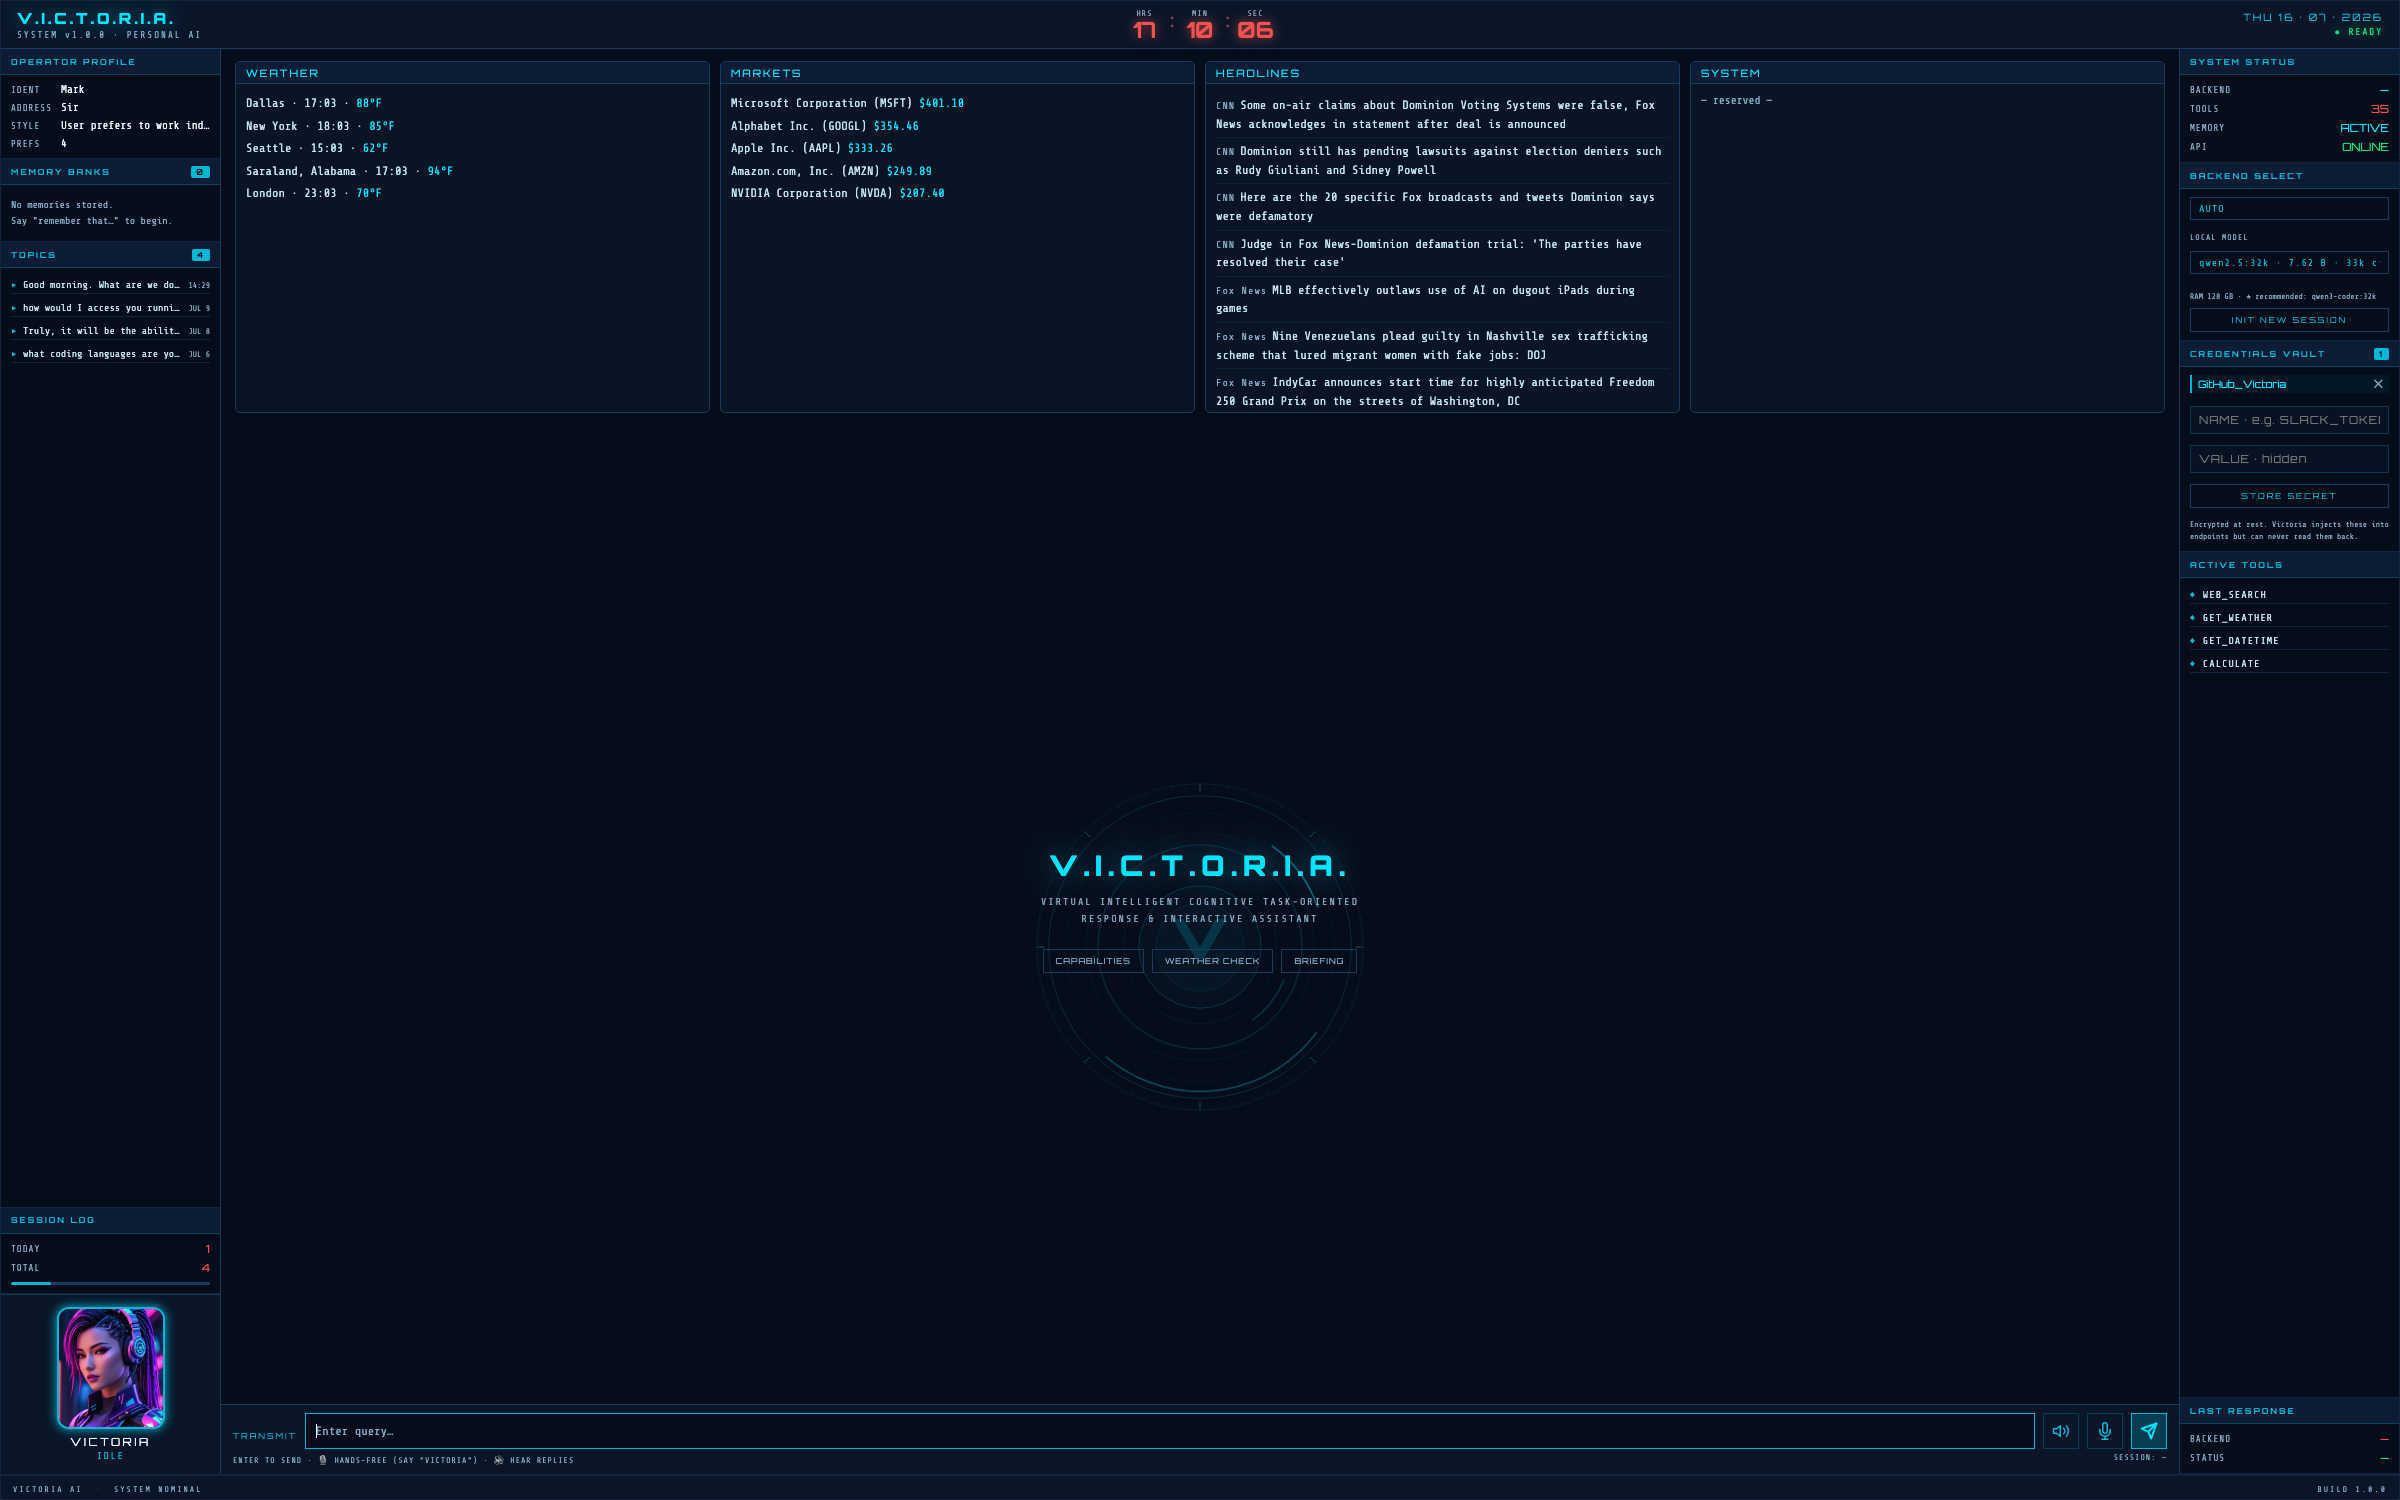
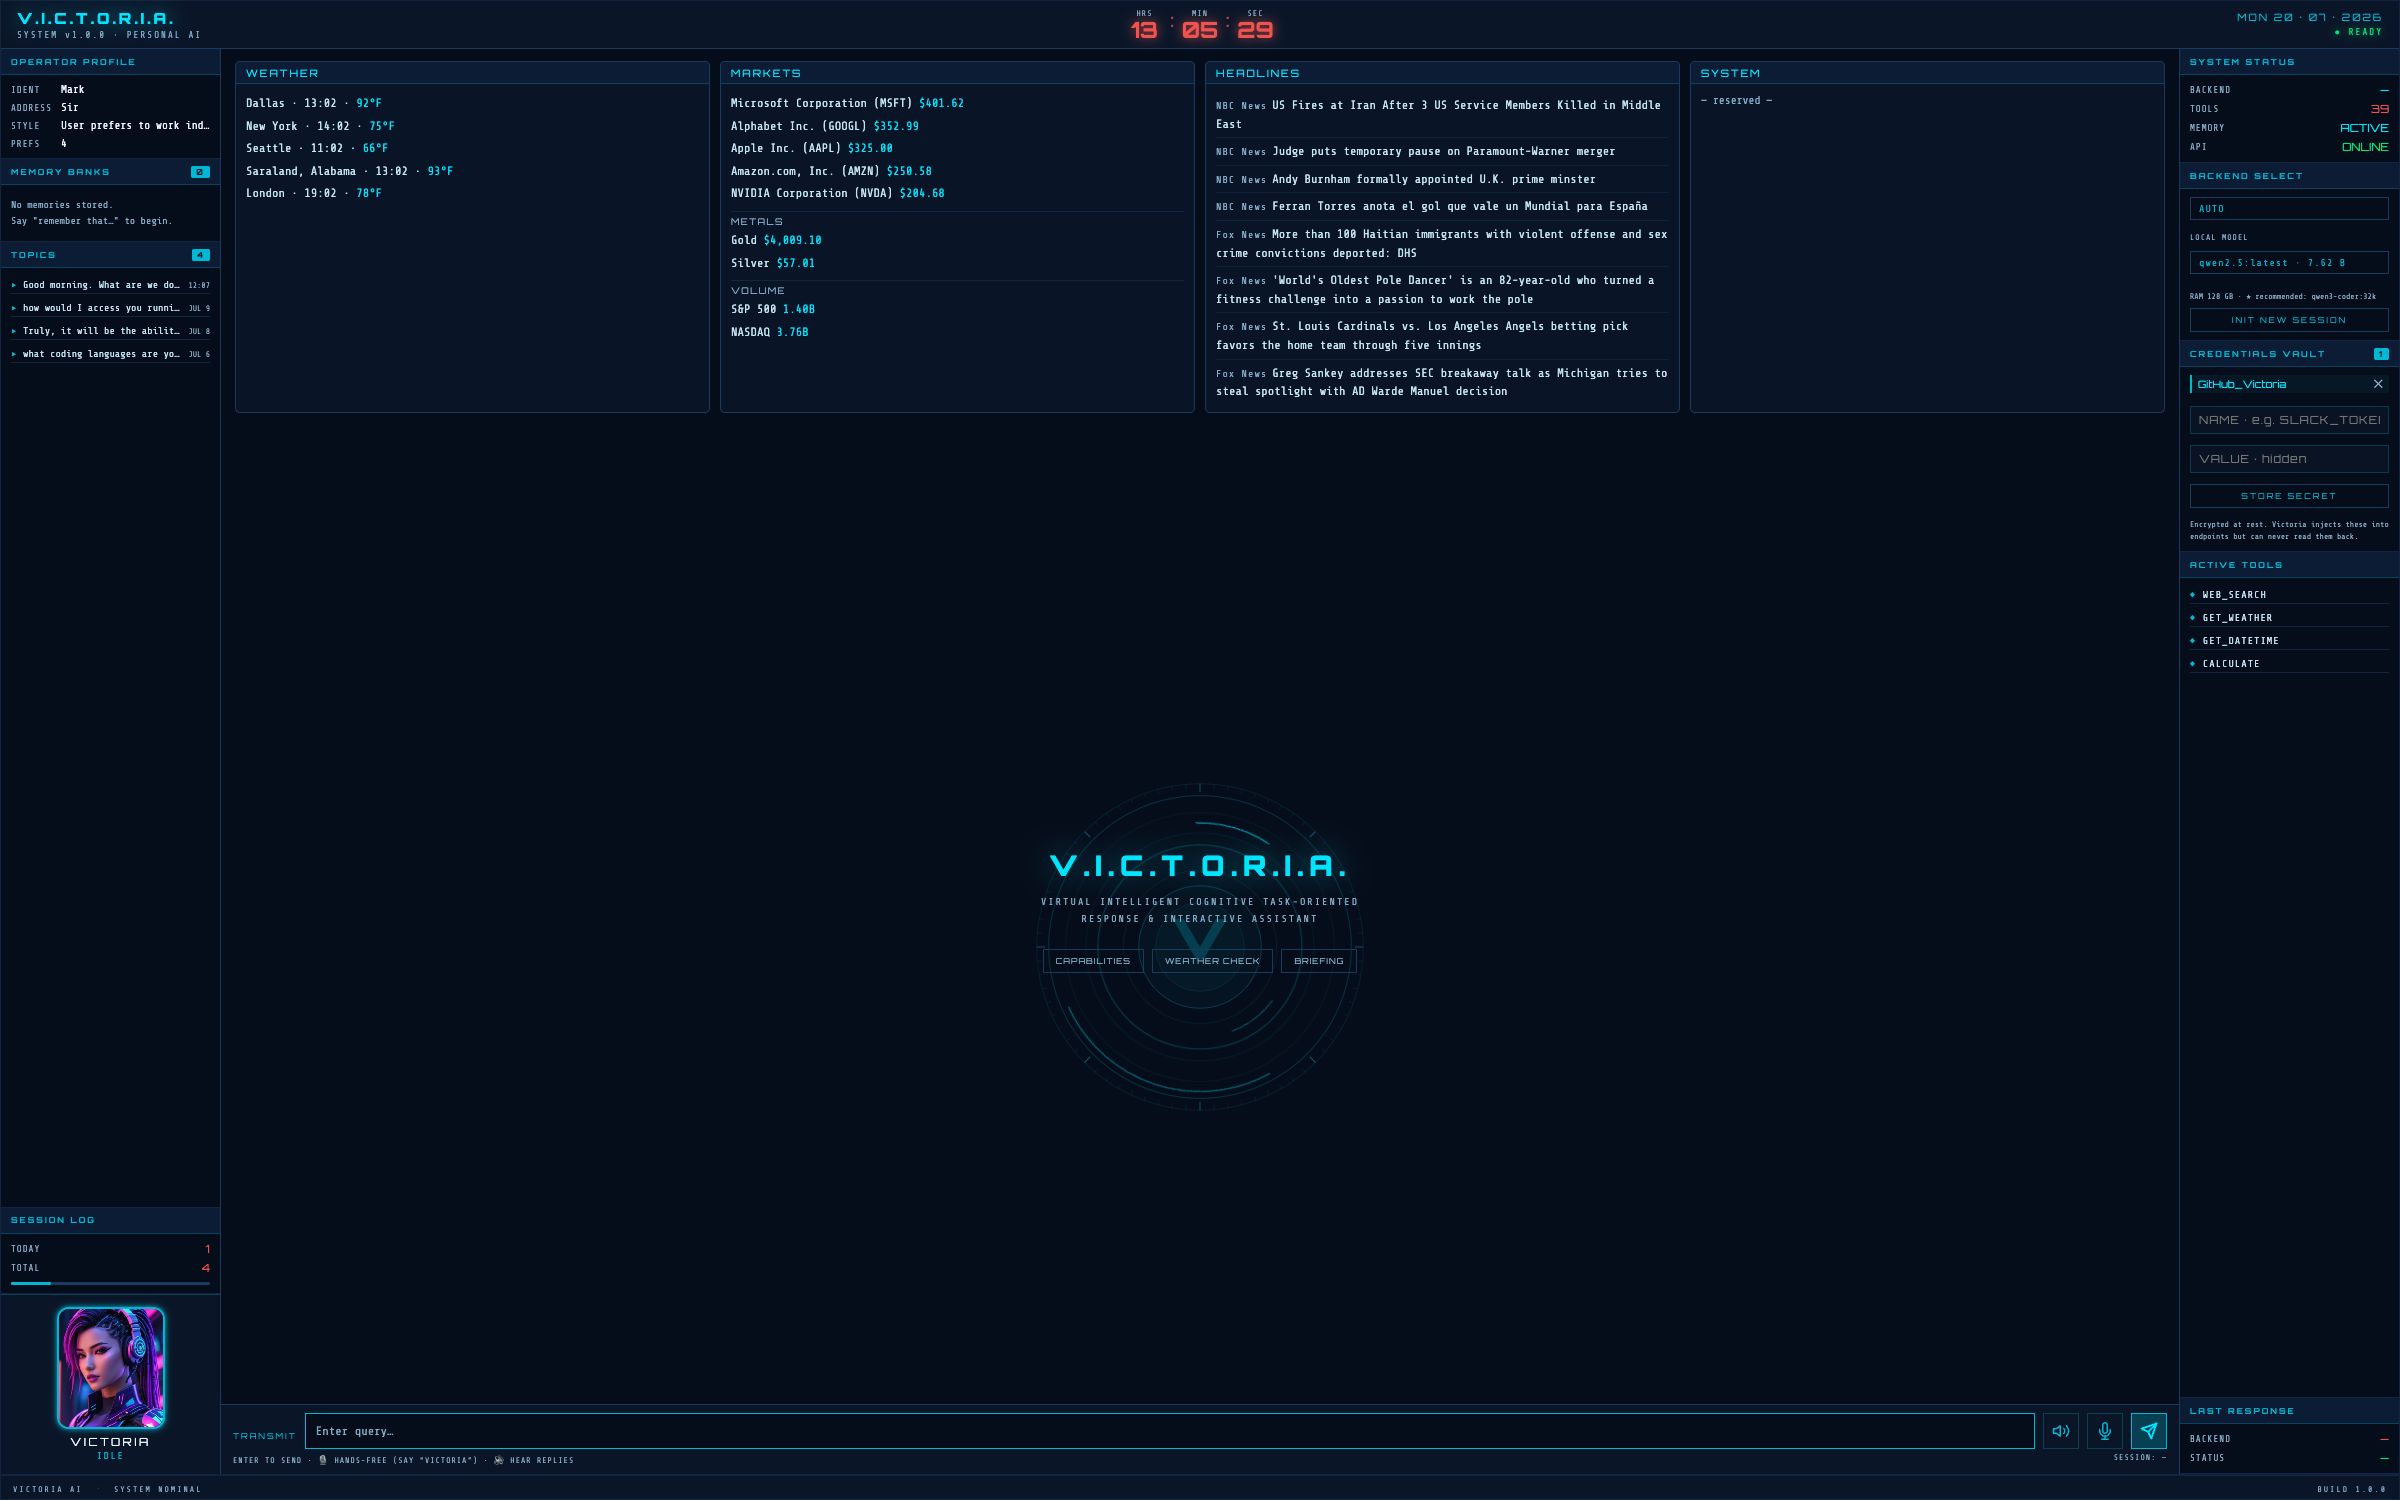
feat(dashboard): Gold/Silver prices + S&P/NASDAQ volume in MARKETS (#61)
* feat(dashboard): add Gold/Silver prices + S&P/NASDAQ volume to MARKETS

The MARKETS box now shows, below the tracked stocks, two fixed sub-sections:
- METALS: Gold (GC=F) and Silver (SI=F) prices
- VOLUME: S&P 500 (^GSPC) and NASDAQ (^IXIC) regular-session trading volume

All from the same Yahoo v8 chart endpoint already used for stocks
(query1.finance.yahoo.com — already allow-listed, so no new egress).

- feeds.py: _quote helper (price+volume), fetch_metals, fetch_indices, and
  fetch_markets (gathers stocks+metals+indices concurrently).
- api.py: GET /v1/dashboard/stocks now returns {items, metals, indices}.
- app.js: MARKETS box renders labelled METALS + VOLUME sub-sections; volume
  formatted B/M, metals as $ with thousands separators. style.css: .dash-sub.
- tests: fetch_metals/indices mapping + endpoint shape (333 -> 335).
- docs: README markets line, decisions ADR, counts.

Metals/indices are FIXED (not conversationally tracked). Verified live:
endpoint returns real data and the box renders (Gold $4,016, Silver $57.16,
S&P 500 1.18B, NASDAQ 3.25B).

* docs(screenshot): refresh hero HUD — NBC headlines + METALS/VOLUME + tools=39

The hero shot predated three changes now on-screen: NBC News headlines (was the
dead CNN feed), the MARKETS box's METALS (Gold/Silver) + VOLUME (S&P/NASDAQ)
sub-sections (this PR), and the tool count (35 -> 39, after the knowledge tools).
Recaptured live at 2400x1500.

---------

Changed region(s): [[0.5, 0.0613, 0.6875, 0.276], [0.4688, 0.0, 0.5312, 0.0307], [0.3125, 0.1533, 0.3438, 0.2147]]

diff --git a/victoria/static/app.js b/victoria/static/app.js
@@ -946,21 +946,55 @@ inputEl.focus();
     } catch (e) { empty(elW, 'weather unavailable'); }
   }
 
+  function fmtVol(v) {
+    v = Number(v);
+    if (v >= 1e9) return (v / 1e9).toFixed(2) + 'B';
+    if (v >= 1e6) return (v / 1e6).toFixed(1) + 'M';
+    return v.toLocaleString('en-US');
+  }
+  function marketLine(el, label, valueText) {
+    const line = document.createElement('div');
+    line.className = 'dash-line';
+    line.append(label + ' ');
+    const s = document.createElement('span');
+    s.className = 'price';
+    s.textContent = valueText;
+    line.append(s);
+    el.appendChild(line);
+  }
+  function subhead(el, text) {
+    const d = document.createElement('div');
+    d.className = 'dash-sub';
+    d.textContent = text;
+    el.appendChild(d);
+  }
   async function refreshStocks() {
     if (!elS) return;
     try {
-      const items = await load('/v1/dashboard/stocks');
-      if (!items.length) return empty(elS, 'No stocks tracked — ask Victoria to add one.');
+      const r = await fetch('/v1/dashboard/stocks');
+      if (!r.ok) throw new Error('HTTP ' + r.status);
+      const data = await r.json();
+      const items = data.items || [], metals = data.metals || [], indices = data.indices || [];
       elS.innerHTML = '';
       for (const it of items) {
-        const line = document.createElement('div');
-        line.className = 'dash-line';
-        line.append(`${it.name} (${it.symbol}) `);
-        const s = document.createElement('span');
-        s.className = 'price';
-        s.textContent = it.price == null ? '—' : '$' + Number(it.price).toFixed(2);
-        line.append(s);
-        elS.appendChild(line);
+        marketLine(elS, `${it.name} (${it.symbol})`,
+                   it.price == null ? '—' : '$' + Number(it.price).toFixed(2));
+      }
+      if (metals.length) {
+        subhead(elS, 'METALS');
+        for (const m of metals) {
+          marketLine(elS, m.label, m.price == null ? '—'
+            : '$' + Number(m.price).toLocaleString('en-US', {minimumFractionDigits: 2, maximumFractionDigits: 2}));
+        }
+      }
+      if (indices.length) {
+        subhead(elS, 'VOLUME');
+        for (const ix of indices) {
+          marketLine(elS, ix.label, ix.volume == null ? '—' : fmtVol(ix.volume));
+        }
+      }
+      if (!items.length && !metals.length && !indices.length) {
+        empty(elS, 'No stocks tracked — ask Victoria to add one.');
       }
     } catch (e) { empty(elS, 'markets unavailable'); }
   }

diff --git a/victoria/static/style.css b/victoria/static/style.css
@@ -785,6 +785,11 @@ select#backend-select:focus, select#model-select:focus { outline: none; border-c
 .dash-line { padding: 2px 0; overflow: hidden; text-overflow: ellipsis; white-space: nowrap; }
 .dash-line .price { color: var(--teal-bright); }
 .dash-line .muted { color: var(--text-dim); }
+.dash-sub {
+  margin-top: 6px; padding-top: 3px; border-top: 1px solid rgba(26, 58, 96, 0.45);
+  font-family: var(--font-hud); font-size: 9px; letter-spacing: 1.5px; color: var(--text-dim);
+}
+.dash-sub:first-child { margin-top: 0; border-top: none; }
 .dash-news-item {
   display: block; padding: 4px 0; color: var(--text); text-decoration: none;
   border-bottom: 1px solid rgba(26, 58, 96, 0.35); white-space: normal;

diff --git a/victoria/dashboard/feeds.py b/victoria/dashboard/feeds.py
@@ -4,6 +4,8 @@ source yields a placeholder rather than breaking the box or the others.
 Data sources (all free, no API key):
 - weather: wttr.in  (temp in °F + the city's LOCAL time, one call per city)
 - stocks:  Yahoo Finance v8 chart endpoint (price + company name)
+- metals:  Gold + Silver price (COMEX futures) via the same Yahoo endpoint
+- indices: S&P 500 + NASDAQ regular-session volume via the same Yahoo endpoint
 - news:    NBC News + Fox News RSS, parsed with the stdlib XML parser
 """
 import asyncio
@@ -86,6 +88,52 @@ async def fetch_stocks(symbols: list[str], top: int = 5) -> list[dict]:
         quotes = list(await asyncio.gather(*[_one_stock(client, s) for s in symbols]))
     quotes.sort(key=lambda q: (q["price"] is not None, q["price"] or 0), reverse=True)
     return quotes[:top]
+
+
+# ── Metals + index volume (fixed MARKETS extras) ─────────────────────────
+# Gold/Silver are COMEX front-month futures; the indices give trading volume.
+# All via the same Yahoo v8 endpoint (host already allow-listed for stocks).
+METALS = [("Gold", "GC=F"), ("Silver", "SI=F")]
+INDICES = [("S&P 500", "^GSPC"), ("NASDAQ", "^IXIC")]
+
+
+async def _quote(client: httpx.AsyncClient, symbol: str) -> dict:
+    """Yahoo chart meta → {price, volume}; both None on failure (never raises)."""
+    try:
+        r = await client.get(
+            f"https://query1.finance.yahoo.com/v8/finance/chart/{quote(symbol)}",
+            params={"interval": "1d", "range": "1d"},
+        )
+        r.raise_for_status()
+        meta = r.json()["chart"]["result"][0]["meta"]
+        return {"price": meta.get("regularMarketPrice"),
+                "volume": meta.get("regularMarketVolume")}
+    except Exception:
+        logger.debug("quote fetch failed for %s", symbol, exc_info=True)
+        return {"price": None, "volume": None}
+
+
+async def fetch_metals() -> list[dict]:
+    """Gold + Silver price (COMEX front-month futures). [{label, price}]."""
+    async with httpx.AsyncClient(timeout=8.0, headers=_UA) as client:
+        qs = await asyncio.gather(*[_quote(client, sym) for _, sym in METALS])
+    return [{"label": label, "price": q["price"]} for (label, _), q in zip(METALS, qs)]
+
+
+async def fetch_indices() -> list[dict]:
+    """S&P 500 + NASDAQ regular-session trading volume. [{label, volume}]."""
+    async with httpx.AsyncClient(timeout=8.0, headers=_UA) as client:
+        qs = await asyncio.gather(*[_quote(client, sym) for _, sym in INDICES])
+    return [{"label": label, "volume": q["volume"]} for (label, _), q in zip(INDICES, qs)]
+
+
+async def fetch_markets(symbols: list[str]) -> dict:
+    """Everything the MARKETS box shows — tracked stocks (top by price) +
+    Gold/Silver prices + S&P/NASDAQ volume — fetched concurrently."""
+    items, metals, indices = await asyncio.gather(
+        fetch_stocks(symbols), fetch_metals(), fetch_indices()
+    )
+    return {"items": items, "metals": metals, "indices": indices}
 
 
 # ── News ───────────────────────────────────────────────────────────────

diff --git a/tests/test_dashboard.py b/tests/test_dashboard.py
@@ -88,6 +88,23 @@ async def test_fetch_stocks_sorts_by_price_and_caps(monkeypatch):
     assert [q["symbol"] for q in out] == ["B", "F", "C", "E", "A"]  # desc, None dropped, top 5
 
 
+async def test_fetch_metals_maps_labels(monkeypatch):
+    async def fake_quote(client, sym):
+        return {"price": {"GC=F": 4014.2, "SI=F": 57.1}[sym], "volume": None}
+    monkeypatch.setattr(feeds, "_quote", fake_quote)
+    out = await feeds.fetch_metals()
+    assert out == [{"label": "Gold", "price": 4014.2}, {"label": "Silver", "price": 57.1}]
+
+
+async def test_fetch_indices_maps_volume(monkeypatch):
+    async def fake_quote(client, sym):
+        return {"price": None, "volume": {"^GSPC": 1_089_007_000, "^IXIC": 3_044_085_000}[sym]}
+    monkeypatch.setattr(feeds, "_quote", fake_quote)
+    out = await feeds.fetch_indices()
+    assert out == [{"label": "S&P 500", "volume": 1089007000},
+                   {"label": "NASDAQ", "volume": 3044085000}]
+
+
 # ── API endpoints ───────────────────────────────────────────────────────
 async def _client():
     return AsyncClient(transport=ASGITransport(app=app), base_url="http://test")
@@ -105,16 +122,21 @@ async def test_data_endpoints(monkeypatch):
     async def fw(cities): return [{"city": "Dallas", "time": "16:22", "tempF": 93}]
     async def fs(symbols): return [{"symbol": "AAPL", "name": "Apple Inc.", "price": 155.25}]
     async def fn(sources): return [{"source": "NBC News", "title": "H", "url": "http://x/1"}]
+    async def fm(): return [{"label": "Gold", "price": 4014.2}]
+    async def fi(): return [{"label": "S&P 500", "volume": 1089007000}]
     monkeypatch.setattr(feeds, "fetch_weather", fw)
     monkeypatch.setattr(feeds, "fetch_stocks", fs)
     monkeypatch.setattr(feeds, "fetch_news", fn)
+    monkeypatch.setattr(feeds, "fetch_metals", fm)
+    monkeypatch.setattr(feeds, "fetch_indices", fi)
 
     async with await _client() as c:
         w = (await c.get("/v1/dashboard/weather")).json()["items"]
-        s = (await c.get("/v1/dashboard/stocks")).json()["items"]
+        sj = (await c.get("/v1/dashboard/stocks")).json()
         n = (await c.get("/v1/dashboard/news")).json()["items"]
     assert w[0]["tempF"] == 93 and w[0]["time"] == "16:22"
-    assert s[0]["symbol"] == "AAPL"
+    assert sj["items"][0]["symbol"] == "AAPL"
+    assert sj["metals"][0]["label"] == "Gold" and sj["indices"][0]["label"] == "S&P 500"
     assert n[0]["url"] == "http://x/1"
 
 

diff --git a/victoria/interfaces/api.py b/victoria/interfaces/api.py
@@ -321,10 +321,11 @@ async def dashboard_weather():
 
 @router.get("/dashboard/stocks")
 async def dashboard_stocks():
-    """Tracked stocks, top 5 by share price."""
+    """MARKETS box: tracked stocks (top 5 by price) + Gold/Silver prices +
+    S&P 500 / NASDAQ trading volume."""
     from victoria.dashboard.store import dashboard_store
     from victoria.dashboard import feeds
-    return {"items": await feeds.fetch_stocks(dashboard_store.get()["stocks"])}
+    return await feeds.fetch_markets(dashboard_store.get()["stocks"])
 
 
 @router.get("/dashboard/news")

diff --git a/docs/decisions-md.md b/docs/decisions-md.md
@@ -85,6 +85,32 @@ Items awaiting decision before implementation can proceed.
 
 ## Decided
 
+### 2026-07-20 · MARKETS box: add Gold/Silver prices + S&P/NASDAQ volume
+
+**Status:** Implemented (this PR).
+
+**Context:** Alex wanted the MARKETS box to show more than tracked equities —
+precious-metal prices and index trading volume.
+
+**Choice:** Two FIXED sub-sections in the box (not conversationally tracked,
+unlike stocks): **Metals** (Gold `GC=F`, Silver `SI=F` — COMEX front-month
+futures) and **Volume** (S&P 500 `^GSPC`, NASDAQ `^IXIC` regular-session volume).
+All four come from the same Yahoo v8 chart endpoint already used for stocks
+(`query1.finance.yahoo.com` — already allow-listed, no new egress).
+`GET /v1/dashboard/stocks` now returns `{items, metals, indices}`, fetched
+concurrently via `feeds.fetch_markets()`; the box renders labelled sub-sections
+and scrolls if needed.
+
+**Why:** Reuses the proven Yahoo fetcher and existing egress; fixed (not tracked)
+keeps a small, stable set simple. Volume formatted B/M; metals as `$` with
+thousands separators.
+
+**Trade-offs:** Metals follow the front-month futures contract (near spot, not
+exact spot). The box scrolls when stocks + metals + volume exceed its height —
+stock count can be trimmed later if a no-scroll at-a-glance view is preferred.
+
+---
+
 ### 2026-07-20 · Dashboard news: dropped CNN (dead RSS), added NBC News
 
 **Status:** Implemented (this PR).

diff --git a/README.md b/README.md
@@ -64,7 +64,7 @@ victoria-ai/
 │   ├── ensure-model-runner.sh  # Re-bind the Docker Model Runner host-TCP port if it drops
 │   └── claude-login.sh         # Authenticate Claude escalation (subscription login or token)
 ├── skills/                     # Bundled skills (email-drafter, meeting-summariser, code_reviewskill)
-├── tests/                      # 333 pytest tests
+├── tests/                      # 335 pytest tests
 ├── setup-victoria-mac.sh       # One-command macOS installer
 ├── docker-compose.yml
 ├── Dockerfile
@@ -380,7 +380,7 @@ The interface is a full-screen dark HUD inspired by the Iron Man JARVIS OS — d
 - Avatar (bottom) — a framed portrait of Victoria; the glowing frame shifts colour with her state: teal idle, green listening, purple thinking, fuchsia speaking (the fuchsia glow pulses with her voice). Drop your own image at `victoria/static/victoria-avatar.png`
 
 **Center**
-- **Dashboard row (top):** four live info boxes — **Weather** (tracked cities, each shown `City · 24-hr local time · °F`), **Markets** (top 5 tracked stocks by share price, `Name (SYM) $price`), **Headlines** (NBC News + Fox News RSS — click a headline to open it in a new tab), and a reserved fourth box. Manage them by talking to Victoria — "track Dallas", "add Apple stock", "follow Fox News", "drop Tesla" — and the boxes refresh right away. Data is free/no-key: wttr.in (weather), Yahoo Finance (stocks), RSS (news).
+- **Dashboard row (top):** four live info boxes — **Weather** (tracked cities, each shown `City · 24-hr local time · °F`), **Markets** (top 5 tracked stocks by share price as `Name (SYM) $price`, plus **Gold & Silver** prices and **S&P 500 / NASDAQ** trading volume), **Headlines** (NBC News + Fox News RSS — click a headline to open it in a new tab), and a reserved fourth box. Manage them by talking to Victoria — "track Dallas", "add Apple stock", "follow Fox News", "drop Tesla" — and the boxes refresh right away. Data is free/no-key: wttr.in (weather), Yahoo Finance (stocks), RSS (news).
 - Below the dashboard: the rotating V.I.C.T.O.R.I.A. arc-reactor ring with the chat messages overlaid — `OPERATOR` / `VICTORIA` labels, `HH:MM:SS` timestamps, and a `[DOCKER]` / `[OLLAMA]` / `[CLAUDE]` backend badge on each reply. (The clock stays pinned in the top header.)
 
 **Right sidebar**
@@ -707,4 +707,4 @@ PIP_REQUIRE_HASHES=false pip install -r requirements.txt
 python3 -m pytest tests/ -v
 ```
 
-333 tests across memory & semantic recall, conversation, tools & tool-calling (incl. refusal-retry and history de-poisoning), local-first escalation, skills & GitHub import, MCP, the credentials vault, model selection, voice (transcribe / TTS / wake-word), the HUD dashboard (weather / stocks / news + conversational tracking), the Obsidian knowledge bases (search / read / write + path-safety), Telegram, user profiles, and API layers.
+335 tests across memory & semantic recall, conversation, tools & tool-calling (incl. refusal-retry and history de-poisoning), local-first escalation, skills & GitHub import, MCP, the credentials vault, model selection, voice (transcribe / TTS / wake-word), the HUD dashboard (weather / stocks / news + conversational tracking), the Obsidian knowledge bases (search / read / write + path-safety), Telegram, user profiles, and API layers.

diff --git a/claude-md.md b/claude-md.md
@@ -64,7 +64,7 @@ victoria-ai/
 │   ├── chat.py                 # Terminal chat
 │   ├── run_telegram.py
 │   └── run_voice.py
-├── tests/                      # 333 pytest tests
+├── tests/                      # 335 pytest tests
 ├── docs/
 │   └── DECISIONS.md            # Running decision log
 ├── CLAUDE.md                   # This file
@@ -131,7 +131,7 @@ Interfaces (Web HUD / Telegram / Voice / Terminal)
 - **Virtual env in `.venv/`** — standard `python -m venv`, not Poetry/PDM.
 - **Dependencies in `requirements.txt`** — keep it simple.
 - **Config via `.env`** — see `.env.example` for the full list of vars.
-- **Tests with pytest** — 333 tests currently. Never let coverage regress.
+- **Tests with pytest** — 335 tests currently. Never let coverage regress.
 - **Decorator-based tool registry** — `@tool` in `victoria/tools/registry.py`.
 - **All settings env-driven** — never hardcode credentials or paths.
 - **Async where it counts** — FastAPI endpoints, Telegram handlers. Sync OK for tool calls.

diff --git a/docs/build-ai-assistant/references/victoria-reference.md b/docs/build-ai-assistant/references/victoria-reference.md
@@ -8,7 +8,7 @@ is unclear, look at how Victoria actually did it.
   Docker Model Runner / Ollama (local) + Claude Code CLI (cloud escalation),
   Piper + faster-whisper (voice), Fernet + macOS Keychain (vault). Runs native
   (uvicorn in a venv) or containerized (docker-compose).
-- **Scale as of this writing:** ~33 Python modules, 333 tests (22 files),
+- **Scale as of this writing:** ~33 Python modules, 335 tests (22 files),
   3 shipped skills.
 - **Reliable local tool-use lives in two places:** `llm_router._docker_with_tools`
   (forced-tool retry via `tool_choice="required"` + the `_looks_like_tool_refusal`